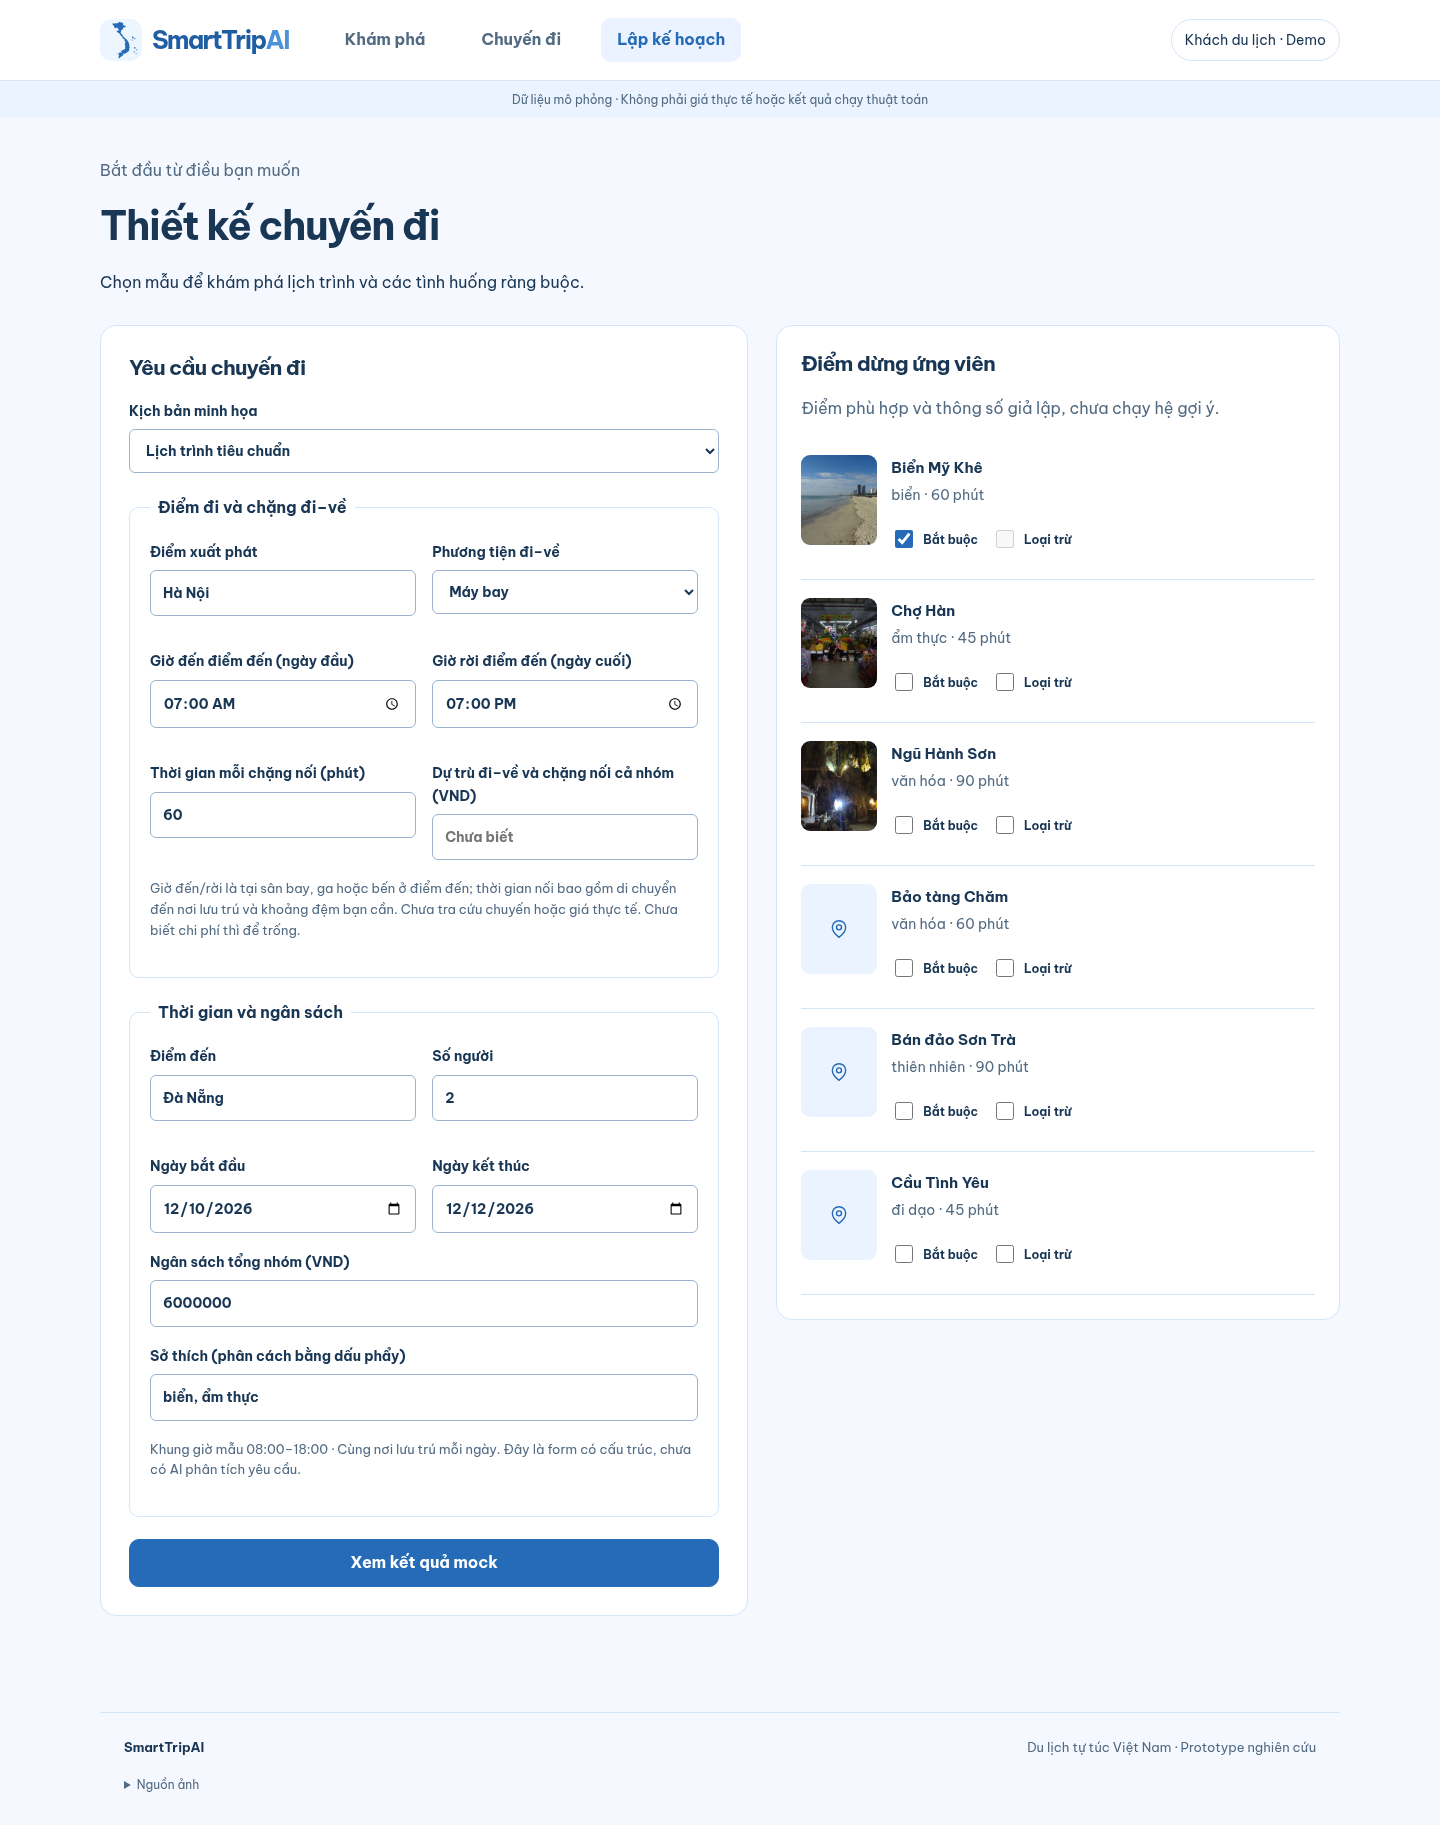
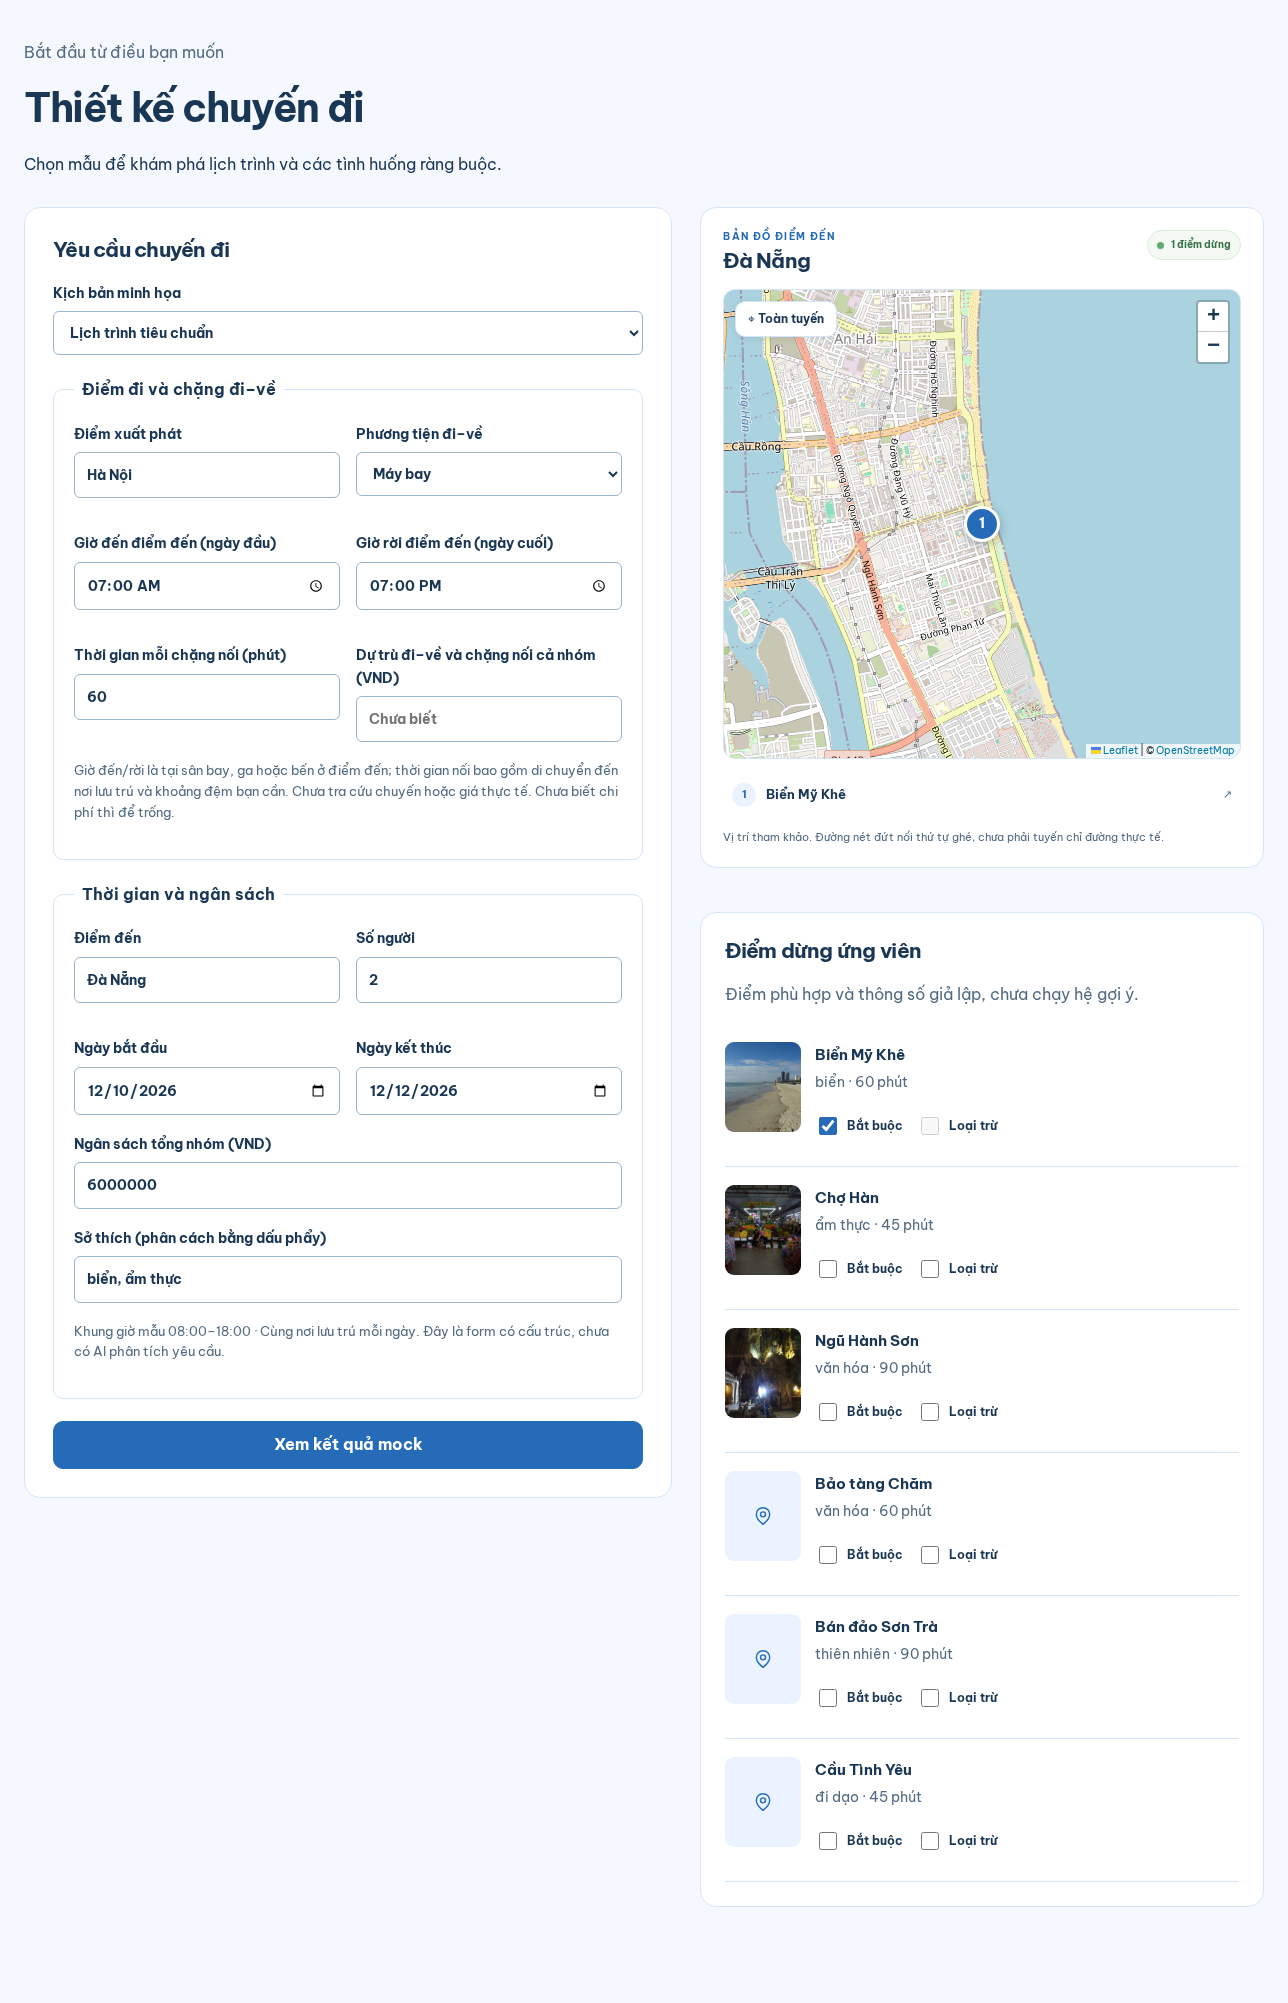
cập nhật UI, readme và slide

diff --git a/README.md b/README.md
@@ -134,98 +134,53 @@ Chi tiết sitemap, vòng đời run và phiên bản: [04-INFORMATION_ARCHITECT
 
 ## 4. Giao diện Người dùng & Trải nghiệm (UI/UX)
 
-### Bắt đầu: Khám phá điểm đến và lộ trình tham khảo
 
-Trang chủ `/` giới thiệu Đà Nẵng, Hà Nội và Huế; chọn thẻ để mở ngay lộ trình. Không cần chọn hồ sơ demo trước khi khám phá. Đà Nẵng dùng fixture demo chi tiết; Hà Nội và Huế là lịch tham khảo minh họa, chưa kiểm tra tuyến, giờ mở cửa hoặc chi phí. Lịch mẫu dẫn sang Planner và cẩm nang mở rộng để đọc tại chỗ.
+### 4.1. Khám phá điểm đến
 
-<details>
+Trang chủ `/` có slideshow tự chuyển ảnh, nút chuyển trái/phải nhỏ gọn, các điểm đến và lịch trình mẫu. Chọn Đà Nẵng để mở lịch demo; Hà Nội và Huế có lộ trình tham khảo riêng. Người dùng có thể khám phá trước khi chọn hồ sơ demo.
+
+<details open>
 <summary>Xem giao diện: Khám phá điểm đến</summary>
 
-![Khám phá điểm đến](docs/uxui_screenshots/happy_00_explore.png)
+![Trang khám phá với slideshow và các điểm đến](docs/uxui_screenshots/happy_00_explore.png)
 
 </details>
 
-<details>
-<summary>Xem giao diện: Lộ trình tham khảo Huế</summary>
+### 4.2. Lập kế hoạch chuyến đi
 
-![Lộ trình tham khảo Huế](docs/uxui_screenshots/happy_07_hue.png)
+Trang `/planner` cho nhập điểm xuất phát, phương tiện, thời gian đến–về, ngày đi, số người, ngân sách và sở thích. Danh sách ứng viên cho chọn điểm bắt buộc/loại trừ; bản đồ hiển thị các điểm đang chọn.
 
-</details>
+Prototype kiểm tra giờ đến–về có phù hợp lịch mẫu và thông báo khi yêu cầu ngoài fixture; chưa tự sắp lại lịch hay lấy giá qua API.
 
-
-### Happy Case 1: Chọn hồ sơ demo
-
-Chọn hồ sơ khách du lịch hoặc quản trị viên tại `/demo-login` khi muốn đổi vai trò mô phỏng; không yêu cầu tài khoản hay mật khẩu thật. Đây không còn là trang mở đầu của ứng dụng.
-
-<details>
-<summary>Xem giao diện: Chọn hồ sơ demo</summary>
-
-![Chọn hồ sơ demo](docs/uxui_screenshots/happy_01_login.png)
-
-</details>
-
-### Happy Case 2: Lập kế hoạch chuyến đi
-
-Nhập điểm xuất phát, phương tiện, giờ đến điểm đến ngày đầu, giờ rời điểm đến ngày cuối, thời gian mỗi chặng nối và dự trù đi–về/chặng nối cả nhóm. Sau đó chọn ngày đi, số người, ngân sách và điểm bắt buộc/loại trừ.
-
-FE kiểm tra giờ đến cộng thời gian nối phải kịp lịch ngày đầu; lịch ngày cuối phải kết thúc kịp giờ rời điểm đến trừ thời gian nối. Nếu xung đột, FE báo lý do; chưa tự sắp lại lịch hoặc tra cứu chuyến vận tải. Lịch tham quan dùng fixture tương ứng; yêu cầu ngoài mẫu được thông báo chưa hỗ trợ.
-
-<details>
+<details open>
 <summary>Xem giao diện: Lập kế hoạch</summary>
 
-![Lập kế hoạch](docs/uxui_screenshots/happy_02_planner.png)
+![Form lập kế hoạch cạnh bản đồ và các điểm dừng ứng viên](docs/uxui_screenshots/happy_02_planner.png)
 
 </details>
 
-### Happy Case 3: Chi tiết lịch trình và kiểm tra ràng buộc
+### 4.3. Lịch trình theo ngày và bản đồ điểm đến
 
-Timeline từng ngày bắt đầu và kết thúc tại nơi lưu trú ở Đà Nẵng, kèm sơ đồ tuyến mô phỏng và kiểm tra ràng buộc.
+Trang `/trips/:tripId/versions/:versionId` hiển thị **timeline bên trái, bản đồ Leaflet/OpenStreetMap bên phải**. Ghim đánh số theo thứ tự ghé; chọn ngày để cập nhật lịch và bản đồ, bấm tên điểm để mở thông tin vị trí.
 
-Khi mở từ Planner, phần toàn hành trình hiển thị điểm đi → Đà Nẵng → điểm đi và các mốc đến–về. Nếu mở lịch mẫu trực tiếp mà chưa nhập thông tin đi–về, màn hình hiển thị hướng dẫn bổ sung.
+Thông tin đi–về, dự toán và báo cáo ràng buộc nằm dưới khu vực tham quan. Giá và lịch vẫn là fixture; vị trí tham khảo và tuyến nét đứt là đường nối minh họa, chưa phải chỉ đường thực tế. Khoản đi–về để trống được hiểu là chưa biết chi phí.
 
-Dự toán tại điểm đến đã gồm lưu trú, ăn uống, tham quan và di chuyển **giả lập**. Dự trù đi–về/chặng nối do người dùng nhập được cộng riêng; để trống nghĩa là chưa biết, không phải miễn phí. Tổng vượt ngân sách nhóm có cảnh báo; không coi các con số này là báo giá thực tế.
+<details open>
+<summary>Xem giao diện: Lịch trình và bản đồ</summary>
 
-<details>
-<summary>Xem giao diện: Chi tiết lịch trình</summary>
-
-![Chi tiết lịch trình](docs/uxui_screenshots/happy_03_itinerary.png)
+![Lịch trình theo ngày bên trái và bản đồ thật với các điểm ghé đánh số bên phải](docs/uxui_screenshots/happy_03_itinerary.png)
 
 </details>
 
-### Happy Case 4: So sánh hai lịch trình mẫu
+### Các màn hình hỗ trợ
 
-Hai phương án dùng cùng request và snapshot để minh họa khác biệt về thứ tự ghé, thời gian đi và chi phí. Đây chưa phải kết quả benchmark thuật toán.
+- `/trips`: lưu và mở lại phiên bản trong localStorage; thông tin đi–về được lưu theo chuyến/phiên bản.
+- `/compare/:scenarioId`: so sánh hai lịch mẫu cùng request và snapshot; chưa phải benchmark thuật toán.
+- `/demo-login`: chọn hồ sơ traveler/admin mô phỏng.
+- `/admin`: admin demo xem danh mục và nguồn; chưa cập nhật dữ liệu qua backend.
+- `/diem-den/:destinationId`: xem lộ trình tham khảo tại Hà Nội hoặc Huế.
 
-<details>
-<summary>Xem giao diện: So sánh lịch mẫu</summary>
-
-![So sánh lịch mẫu](docs/uxui_screenshots/happy_04_comparison.png)
-
-</details>
-
-### Happy Case 5: Quản trị danh mục và nguồn dữ liệu
-
-Danh mục địa điểm và provenance phục vụ kiểm tra dữ liệu; giao diện chỉ xem, chưa có API quản trị thật.
-
-<details>
-<summary>Xem giao diện: Quản trị nguồn</summary>
-
-![Quản trị nguồn](docs/uxui_screenshots/happy_05_admin.png)
-
-</details>
-
-### Happy Case 6: Danh sách chuyến đi và phiên bản đã lưu
-
-Mở lại kế hoạch và phiên bản điều chỉnh từ localStorage, giữ nguyên phiên bản trước. Thông tin đi–về được lưu riêng theo chuyến/phiên bản khi bấm lưu; xóa dữ liệu demo cũng xóa thông tin này.
-
-<details>
-<summary>Xem giao diện: Chuyến đi của bạn</summary>
-
-![Chuyến đi của bạn](docs/uxui_screenshots/happy_06_trips.png)
-
-</details>
-
-Chi tiết thiết kế: [05-UX_UI_DESIGN.md](docs/05-UX_UI_DESIGN.md). Cách chạy FE, kịch bản demo và ghi nhận kiểm tra: [frontend/README.md](frontend/README.md).
+Cách chạy frontend và kịch bản demo: [frontend/README.md](frontend/README.md). Chụp lại bộ ảnh bằng `cd frontend && node scripts/capture-readme.mjs`; script tự mở máy chủ cục bộ hoặc dùng `SMARTTRIP_URL` nếu đã có server.
 
 ---
 

diff --git a/docs/architecture/OPENAPI_SPECIFICATION.md b/docs/architecture/OPENAPI_SPECIFICATION.md
@@ -16,14 +16,6 @@ Nguồn máy đọc: [openapi.yaml](../api/openapi.yaml), OpenAPI 3.1.0, base `/
 | getSharedVersion | GET /shares/{shareToken} | Public có token, trả 404 khi hết hạn/thu hồi |
 | listSources/createSource/updatePlace/publishSnapshot | /admin/sources, /admin/places/{placeId}, /admin/snapshots | Admin; không cấp quyền đọc trips riêng |
 
-## Contract và lỗi
-TravelRequest và PlanVersion trong YAML dùng cùng từ điển với optimizer; tiền integer VND theo nhóm, cost basis rõ. Start/endDate inclusive, phút 0..1440, start<end, endDate>=startDate. partySize>=1, mandatory/excluded phải tồn tại và không giao nhau. Schema không diễn đạt hết cross-field constraints: backend kiểm tra các quy tắc BR-01..10 trước solver.
-
-Bearer token target có expiry; 401 khi thiếu/hết hạn; 403 khi không có vai trò admin, 404 khi tài nguyên riêng không có quyền xem để giảm lộ thông tin; 409 khi version/feedback xung đột; 422 khi input sai. Problem dùng application/problem+json có type/title/status/detail/code/instance; không đưa stack trace hoặc khóa API ra response.
-
-Request RunCreate có snapshotId, request và parentVersionId. Retry POST create run cần Idempotency-Key (target ghi key theo user+trip, request hash, cùng key khác payload trả 409); lần tạo run và tham chiếu snapshot phải atomic. Execution state tách solver status. Run QUEUED/RUNNING có result=null; khi COMPLETED có result, FAILED trả reason qua result DATA_ERROR hoặc Problem tùy thời điểm lỗi. Poll có backoff và dừng khi complete, không vòng lặp vô hạn. Thời gian phản hồi/queue durability cần đo khi triển khai, không cam kết ở prototype.
-
-OptimizationResult ràng buộc plan=null cho INFEASIBLE/TIMEOUT_NO_SOLUTION/INVALID_INPUT/DATA_ERROR; các trạng thái có nghiệm bắt buộc PlanVersion. Run lỗi model nội bộ không gán INVALID_INPUT của người dùng. `isMock` là provenance môi trường demo, không phải solver status. Result/plan có configVersion/objectiveVersion; result có skippedPlaces với placeId/reason và mỗi check có evidence có cấu trúc. FactProvenance trên Place, OpeningWindow và TravelEdge ghi nguồn/thời điểm/hiệu lực cho dữ kiện, tách khỏi provenance của giá. Unknown constraint check không được tô thành pass. Mỗi plan có request/snapshotId, parentVersionId và total từ cost items.
 
 ## Ví dụ yêu cầu lập kế hoạch
 ```json

diff --git a/docs/architecture/DATABASE_DESIGN.md b/docs/architecture/DATABASE_DESIGN.md
@@ -91,12 +91,3 @@ erDiagram
 
 Snapshot payload là bản sao dữ kiện chuẩn hóa tại lúc publish, không join dữ liệu live để tái dựng lịch cũ. Travel edges/fixed costs nằm trong payload; tương lai tách bảng nếu cần truy vấn khối lượng lớn. Giá theo nhiều đêm được chuẩn hóa thành line item tổng đúng số đêm trước đưa vào solver.
 
-## Toàn vẹn và ownership
-Transaction ghi run + version + itinerary cùng nhau sau validator; không tạo version nếu chưa có nghiệm. API lấy trip.owner_id và kiểm tra ở mọi đường dẫn con. parent_version_id phải cùng trip; snapshot của result phải khớp run. Composite FK hoặc transaction validation ngăn parent/run thuộc trip khác. Unique version_no được cấp trong transaction có khóa hàng trip; xung đột trả 409, không last-write-wins.
-
-Không UPDATE/DELETE snapshot đã tham chiếu trong luồng thông thường; điều chỉnh tạo version mới. Admin chỉnh catalog chỉ ảnh hưởng snapshot tương lai. Chặn sửa version ở application và DB permissions/trigger khi triển khai. Lưu giải thích xung đột trong run, không đưa plan vi phạm vào trip_versions.
-
-## Index, retention và bảo vệ
-Index trips(owner_id,created_at), trip_versions(trip_id,version_no), optimization_runs(trip_id,started_at), price_records(place_id,service_date,recorded_at), opening_windows(place_id,service_date), share_links(token_hash). Chỉ thêm JSONB GIN nếu workload chứng minh cần.
-
-Password hash dùng thuật toán phù hợp như Argon2id khi triển khai, không lưu password; không log token hoặc yêu cầu nhạy cảm nguyên bản. Retention dữ liệu cá nhân cần chính sách thống nhất trước production; xóa tài khoản phải thu hồi share và xử lý trips/snapshots liên quan, không đặt thời hạn pháp lý giả định. Dữ liệu nghiên cứu nên khử định danh trước export. FE localStorage chỉ chứa dữ liệu demo, có nút xóa riêng namespace.

diff --git a/frontend/README.md b/frontend/README.md
@@ -73,7 +73,7 @@ Kiểm tra ngày 02/11/2026, Node 26.8.1:
 | Mermaid | Parse thành công 13 sơ đồ Mermaid trong Chromium; mind map dùng ảnh người dùng cung cấp |
 | Trình duyệt | Pass demo chính, so sánh, conflict, timeout, unsupported, reload v1/v2, admin, not-found |
 | Responsive/keyboard | Không tràn ngang tại 390px ở các route được kiểm tra; skip link và reduced motion được kiểm tra, không phải audit WCAG đầy đủ |
-| Ảnh UI/UX | 8 ảnh màn hình dùng trong README tại docs/uxui_screenshots |
+| Ảnh UI/UX | 3 ảnh chụp UI hiện tại (03/11/2026): khám phá, lập kế hoạch, lịch trình/bản đồ tại docs/uxui_screenshots |
 
 Kiểm tra browser dùng Chromium có sẵn và server localhost. Snapshot/fixture check không phải solver benchmark. Reviewer đã rà và các lỗi quan trọng về khóa prefix, provenance từng dữ kiện và metadata result đã được sửa.
 
